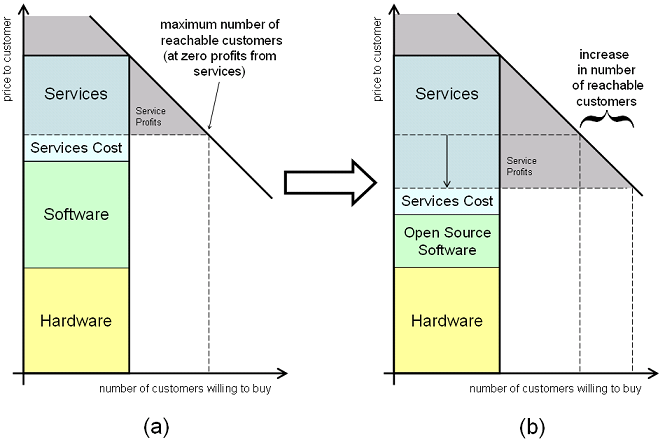
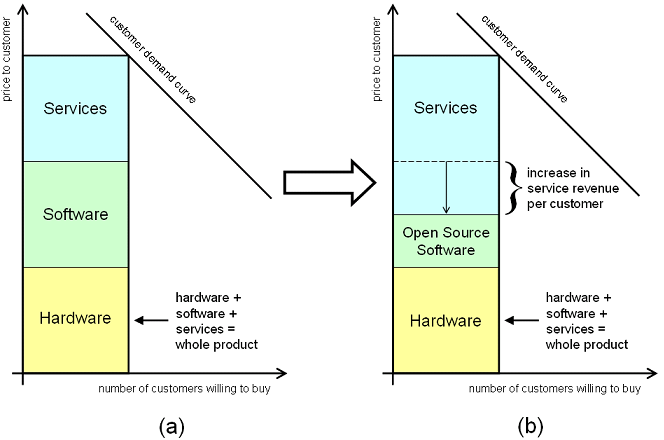
Adding software cost savings chapter

diff --git a/opendaylight/opendaylight.tex b/opendaylight/opendaylight.tex
@@ -69,6 +69,7 @@
 \setcounter{appendixsection}{0}
 
 \renewcommand{\baselinestretch}{1.5}
+\raggedbottom
 
 \begin{document}
 
@@ -596,7 +597,6 @@ It is usually common that real market do not follow market spectations for those
  \end{center}
  \end{figure}
 \end{center}
-
 This cycle~\cite{HypeCycle}, which tries to represent the maturity, adoption and social application of specific technologies, fits well to describe what is going on in SDN/NFV technology life cycle. From Hype Cycle's persective, the life cycle of a technology has five different phases:
 
 \begin{enumerate}\itemsep0pt
@@ -629,31 +629,41 @@ New standards have emerged, new open source apps are incubating, and big industr
 \end{center}
 Previous detailed issues are driving some \textbf{downward corrections on market spectations} regarding these technologies. Some reports, such as the already mentioned IDC~\cite{SDNMarket20142018IDC}, estimate that, by 2018, SDNmarket will gain ground within the broader enterprise and cloud service provider markets for datacenter networking to over \textbf{\$8B}. Other reports contemplate even worst expectations, decreasing them to \textbf{\$3.6B} by 2019~\cite{SDNMarket20142018PRNewsWire}.
 
-\section{SDN and NFV: Business Models}
-\label{sec:odlbusinessmodels}
+\section{SDN/NFV with OpenDaylight: Software Cost Reduction}
+\label{sec:odlsoftwarecostreduction}
 
-\section{SDN and NFV and OpenDaylight: Customer Win}
-\label{sec:odlbusinessmodels}
-
-It is important to analyze the importance of OpenDaylight from the perspective of being Open Source, on the one hand, but also from the perspective of being based on a new technology, SDN and NFV. There are two different ways that potential customers of the technology will benefit from when using OpenDaylight:
-\begin{itemize}\itemsep0pt
-\item{\textbf{Software Cost Reduction}}.
-\item{\textbf{SDN/NFV associated Cost Reduction}}.
-\end{itemize}
-In this section, both facts will be analyzed in order to clarify how important is for companies having access to Open Source projects and technologies associated to them, above all if this kind of technology means also associated cost reduction.
-\subsection{Software Cost Reduction}
-
+It is important to analyze the importance of OpenDaylight from the perspective of being Open Source. Being Opendaylight an Open Source software solution, it has been proved that, for system integrators, using Open Source is cheaper. This implies \textbf{Software Cost Reduction} in the complete solution.\\
+\\
+In this section, software cost reduction will be analyzed in order to clarify how important is for companies having access to Open Source projects, and incorporating this software to the complete system integrated solution.\\
+\\
+Customers will demand SDN technology providers to deliver "SDN complete solution". OpenDaylight project, being Open and costless as well, will be a key piece for technology providers to offer a SDN solution, freeing the customer to focus on business rather than IT. Apart from software, solution comprises hardware and services.\\
+\\
+Open Source Software is the key to construct a SDN solution which allows SDN system integrators a more flexible and profitable business case~\ref{EconomicMotivationOpenSource}. Being costless, software expenses will exist (software integration, bug fixing, adaptations, etc.), but will be less compared to proprietary solutions. This will allow SDN system integrators to increase their business from two perspectives.\\
+\\
+On the one hand, SDN system providers \textbf{will benefit from Open Source Software by increasing services revenue per customer}. If SDN provider owns only the services component, it will have to pay other companies for the software and the hardware. In a SDN system integrator's interest, it is desirable to acquire hardware and software as cheaply as possible. Hardware costs will be somehow not flexible, being the ones cheaper in the market. However, from software perspective, if Open Source software is an option, as in OpenDaylight's example, it is typically much cheaper than closed source software, hence its use increases profits for the system integrator.
 \begin{center}
  \begin{figure}[H]
  \begin{center}
    \includegraphics[width=15cm]{img/open-source-lower-cost-00.png}
-   \caption{Open Source Software Cost Reduction}
-   \label{fig:oss_cost_reduction}
+   \caption{Open Source Software: Service Revenue Increase}
+   \label{fig:oss_service_revenue}
  \end{center}
  \end{figure}
 \end{center}
+On the other hand, a SDN system integrator can vary solution pricing to a prospective customer's problem. The reason to this, switching from closed source software, typically more expensive, to less expensive open source software, means also reduction of the lower price limit. This option usually means new possible contracts, with a new set of more price-sensitive customers within reach. \textbf{Not only does open source software improve profits on the original individual sales, it also increases the total number of potential customers}.
+\begin{center}
+ \begin{figure}[H]
+ \begin{center}
+   \includegraphics[width=15cm]{img/open-source-lower-cost-01.png}
+   \caption{Open Source Software: More potential customers}
+   \label{fig:oss_more_customers}
+ \end{center}
+ \end{figure}
+\end{center}
+To summarize, it is a fact that has been proven how Open source software has changed the rules of the game. All major vendors involved in OpenDaylight project are complete solution providers in turn, and consider that, investing in production of open source products will benefit them in the long term, as this will mean software cost reduction that will enable other business scenarios.
 
-\subsection{SDN/NFV associated Cost Reduction}
+\section{SDN/NFV technology: Cost Reduction}
+\label{sdnnfvcostreduction}
 
 \begin{center}
  \begin{figure}[H]
